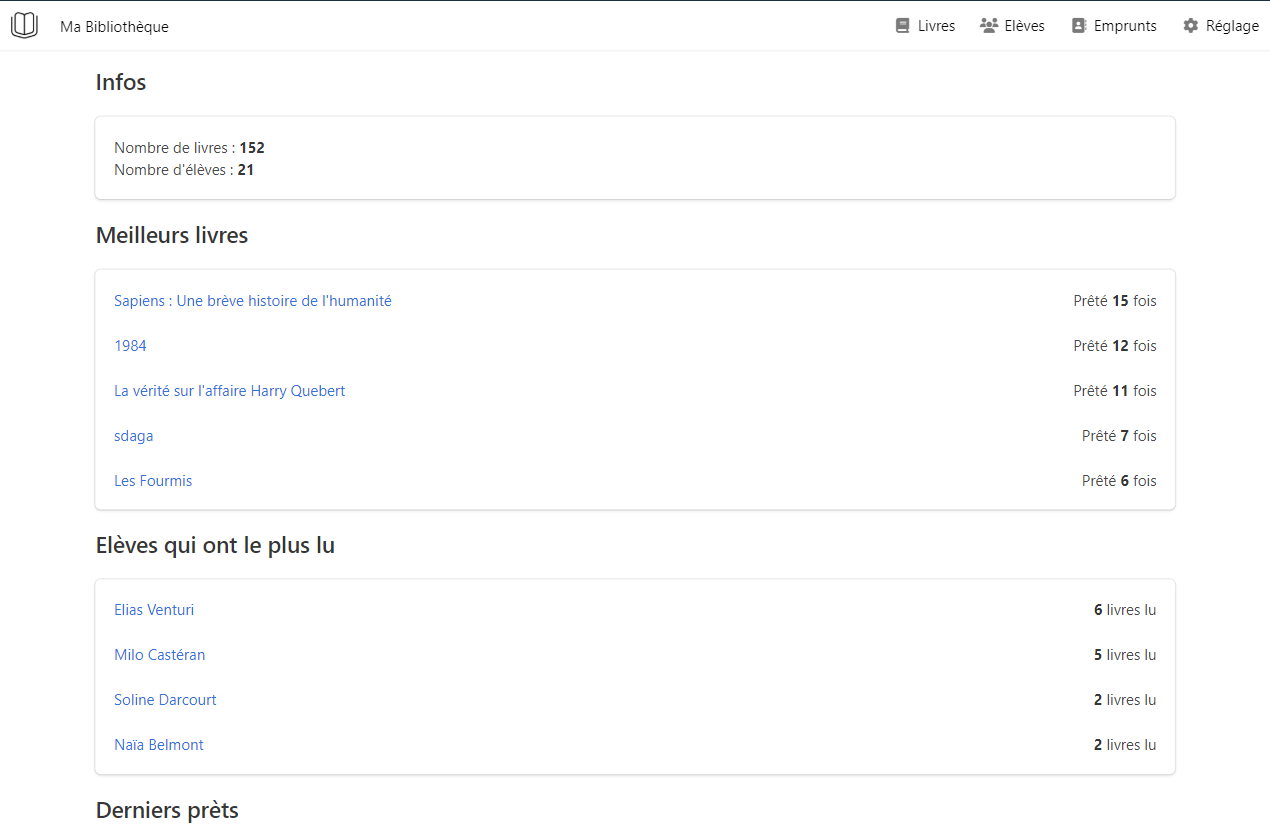
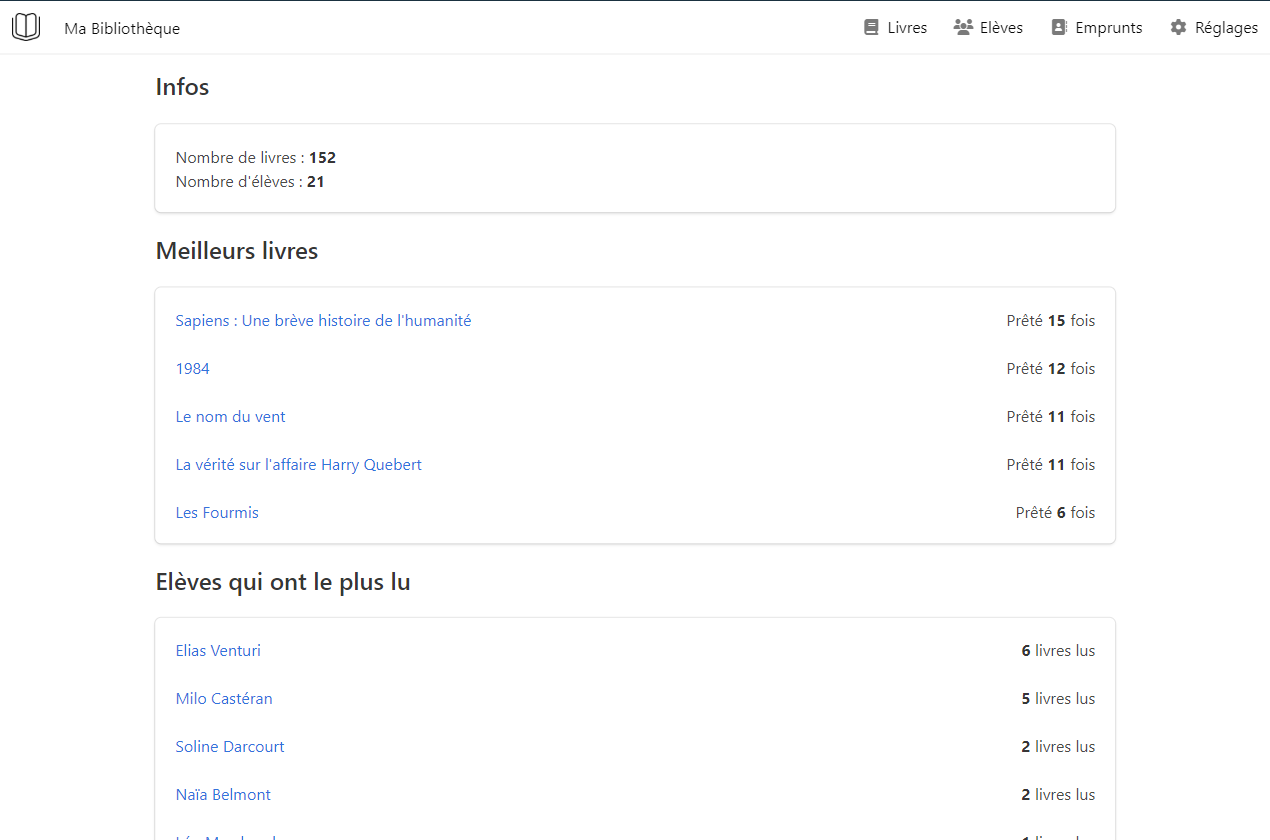
FIX image in index

diff --git a/project/templates/index.html b/project/templates/index.html
@@ -93,15 +93,17 @@
         </div>
 
         <div class="section block wow">
-            <div class="column">
+            <div class="container block">
                 <h1 class="title is-1 is-spaced">Qui a lu quoi ?</h1>
                 <p>Tu peux voir qui a lu quel livre et combien de fois.</p>
             </div>
-            <figure class="images is-fullwidth">
-                <img src="{{ url_for('static',filename='/image/server.png') }}"
-                     href="https://www.flaticon.com/free-stickers/bookshelf"
-                     alt="Bookshelf stickers created by Stickers - Flaticon">
-            </figure>
+            <div class="container is-fluid">
+                <figure class="images is-fullwidth">
+                    <img src="{{ url_for('static',filename='/image/screenshots/eleve_1.png') }}" alt="...">
+                    <img src="{{ url_for('static',filename='/image/screenshots/eleve_phone.png') }}" alt="..."
+                        style="position: absolute; bottom: 0; right: 1rem; height: 100%; object-fit: contain; max-width: 400px;">
+                </figure>
+            </div>
         </div>
     </section>
 
